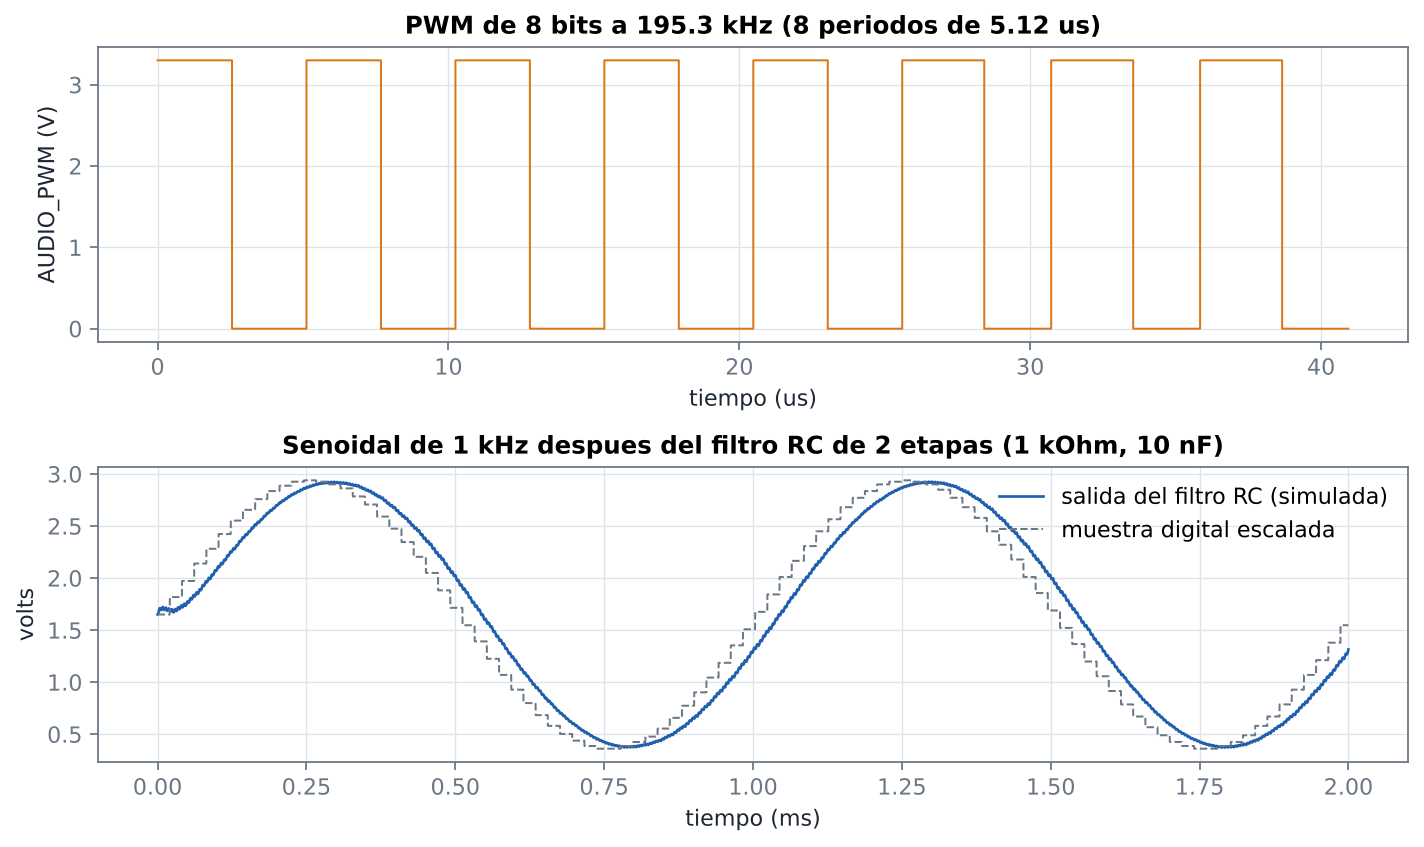
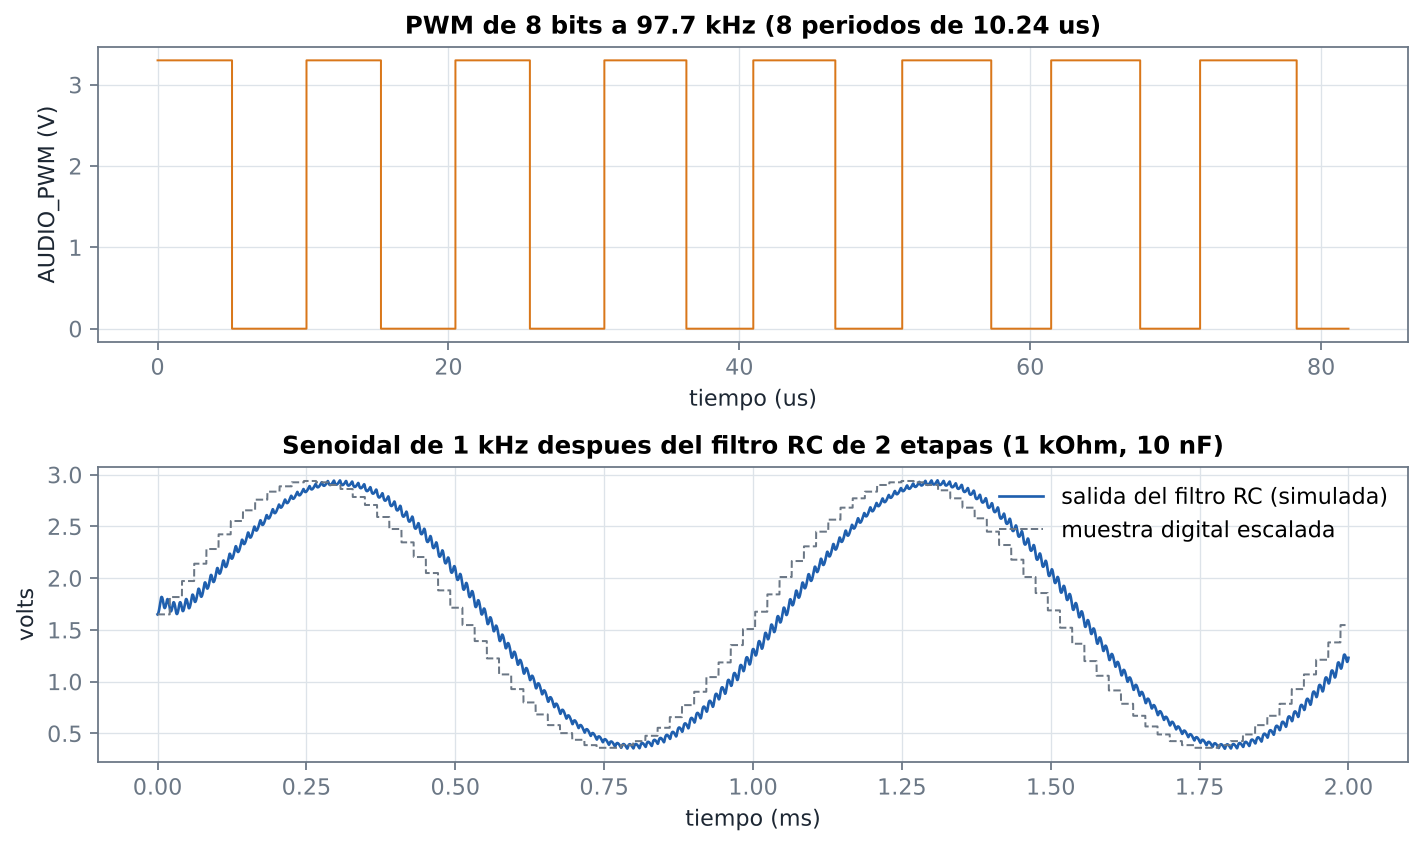
graficas de simulacion a 25 MHz y Fs de 48.8 kHz

diff --git a/sim/graficas/graficas.py b/sim/graficas/graficas.py
@@ -16,7 +16,7 @@ import numpy as np
 AQUI = os.path.dirname(os.path.abspath(__file__))
 SAL = os.path.join(AQUI, 'salida')
 IMG = os.path.join(AQUI, '..', '..', 'docs', 'img')
-FS = 50e6 / 1024
+FS = 25e6 / 512
 
 TINTA = '#1d2733'
 GRIS = '#6b7785'
@@ -201,8 +201,8 @@ def efectos():
     ax[1].plot(t, d['eco'], color=VERDE, lw=0.4, label='salida con eco')
     ax[1].plot(t, d['x_eco'], color=NARANJA, lw=0.4, label='entrada (rafaga de 60 ms)')
     for k in range(1, 4):
-        ax[1].axvline(k * 8192 / FS * 1000, color=GRIS, lw=0.8, ls=':')
-    ax[1].set_title('Eco: retardo de 8192 muestras (167.8 ms), cada repeticion a la mitad')
+        ax[1].axvline(k * 4096 / FS * 1000, color=GRIS, lw=0.8, ls=':')
+    ax[1].set_title('Eco: retardo de 4096 muestras (83.9 ms), cada repeticion a la mitad')
     ax[1].set_ylabel('muestra (12 bits)')
     ax[1].set_xlabel('tiempo (ms)')
     ax[1].legend(loc='upper right', frameon=False, ncol=2)
@@ -243,7 +243,7 @@ def pwm():
     d = lee('pwm.csv')
     c = d['ciclo']
     p = d['pwm']
-    dt = 20e-9
+    dt = 40e-9          # 25 MHz
     rc = 1e3 * 10e-9
     v1 = v2 = 3.3 * 0.5
     sal = np.empty(len(p))
@@ -258,7 +258,7 @@ def pwm():
     fig, ax = plt.subplots(2, 1, figsize=(9, 5.4))
     m = c < 2048
     ax[0].step(c[m] * dt * 1e6, p[m] * 3.3, where='post', color=NARANJA, lw=0.9)
-    ax[0].set_title('PWM de 8 bits a 195.3 kHz (8 periodos de 5.12 us)')
+    ax[0].set_title('PWM de 8 bits a 97.7 kHz (8 periodos de 10.24 us)')
     ax[0].set_ylabel('AUDIO_PWM (V)')
     ax[0].set_xlabel('tiempo (us)')
     ax[1].plot(t, sal, color=AZUL, lw=1.2, label='salida del filtro RC (simulada)')
